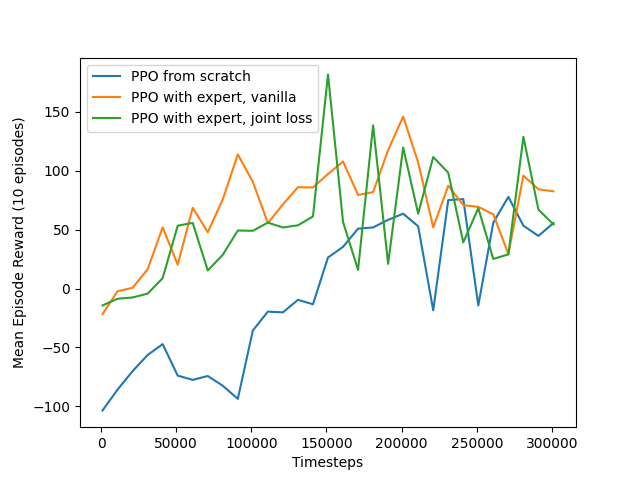
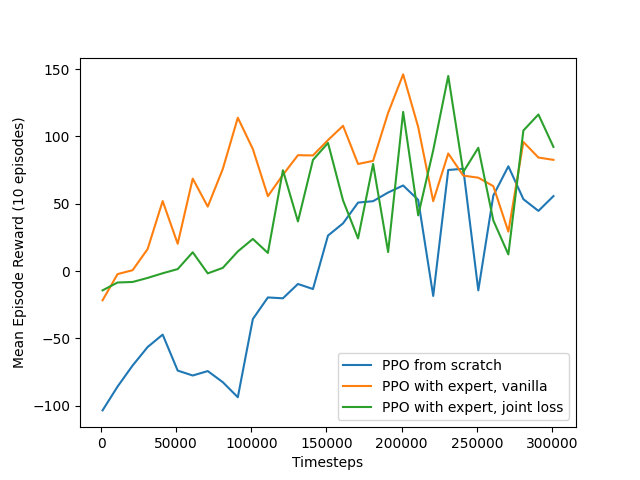
new training run

diff --git a/ppo_fine_tuning_joint.py b/ppo_fine_tuning_joint.py
@@ -78,7 +78,7 @@ def train_ppo_fine_tune_joint(args):
     obs_expert.to(device)
     actions_expert.to(device)
 
-    joint_loss_coef = 0.01
+    joint_loss_coef = 0.03
 
     agent = PPOJointLoss(
         actor_critic,
